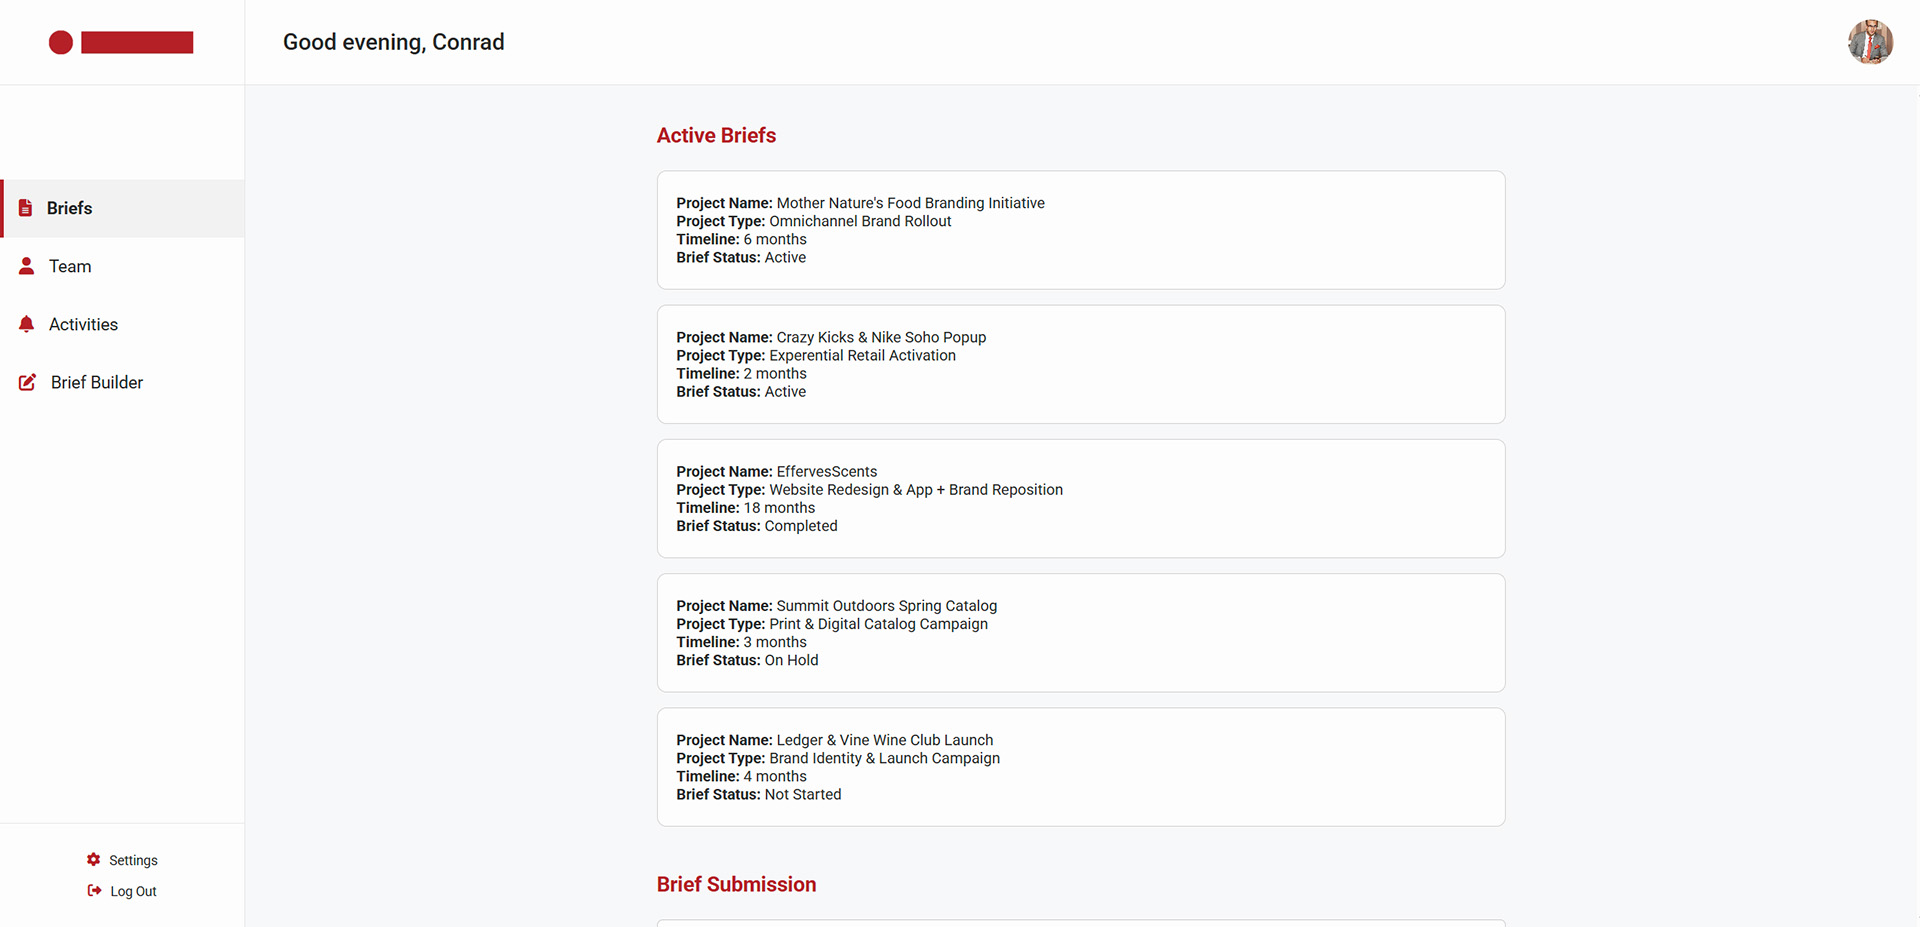
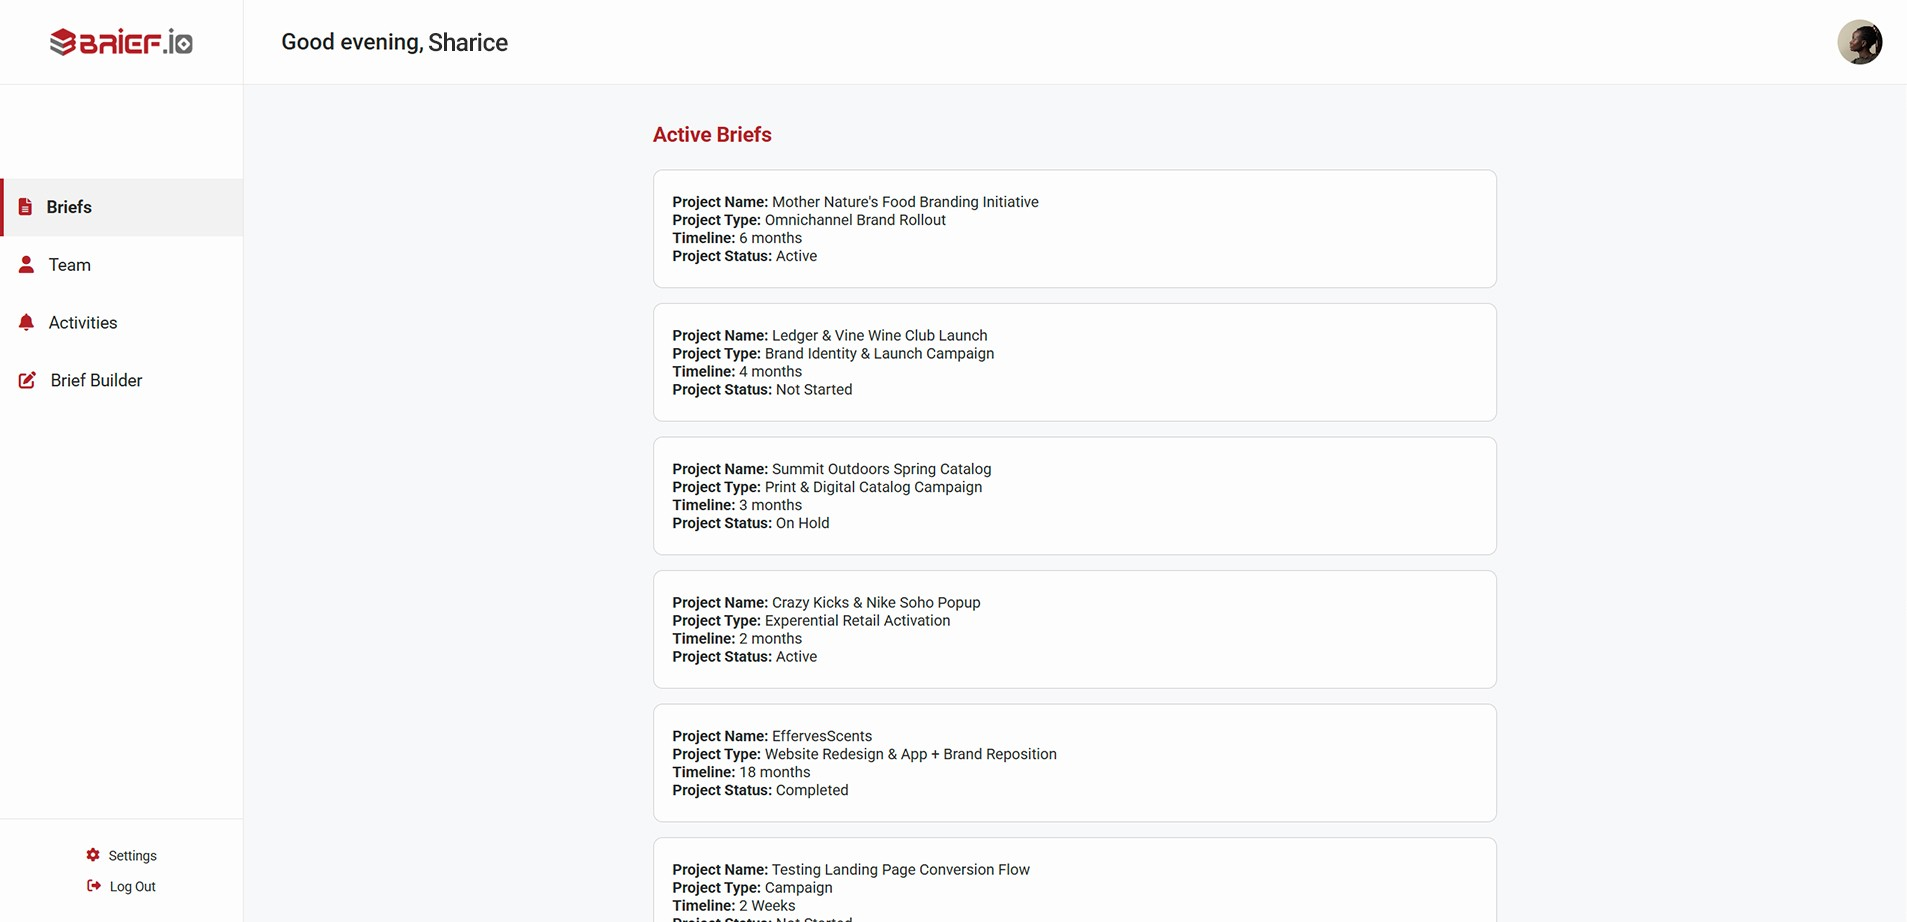
ThreeColumnFeature had 3 placeholder graphics. Removed the placeholder graphics and added stock images of professionals working in an office setting.
Did the same for CTABlock and replaced the placeholder graphic, with an image of professionals in a work environment.

diff --git a/frontend/src/components/ThreeColumnFeature/ThreeColumnFeature.jsx b/frontend/src/components/ThreeColumnFeature/ThreeColumnFeature.jsx
@@ -2,6 +2,9 @@ import "./ThreeColumnFeature.css"
 import bannerContentBlock1 from "../../assets/banner-content-block-1.jpg"
 import bannerContentBlock2 from "../../assets/banner-content-block-2.jpg"
 import bannerContentBlock3 from "../../assets/banner-content-block-3.jpg"
+import threeColumnFeature1 from "../../assets/three-column-feature-1.jpg"
+import threeColumnFeature2 from "../../assets/three-column-feature-2.jpg"
+import threeColumnFeature3 from "../../assets/three-column-feature-3.jpg"
 import "../../styles/section-heading.css"
 
 /* This is the banner section under the first tabbed element on Home.jsx It has the section heading, then 3 columns: image, column heading, and <p> in each column. */
@@ -11,19 +14,19 @@ function ThreeColumnFeature() {
     const columns = [
 
         {
-            image: bannerContentBlock1,
+            image: threeColumnFeature1,
             heading: "Fast creation, editing, with reliable consistency",
             text: "Create beautifully formatted briefs in minutes, make fast edits, and maintain consistent formatting between all initiatives"
         },
 
         {
-            image: bannerContentBlock2,
+            image: threeColumnFeature2,
             heading: "AI-Powered brief generation and edits",
             text: "AI-Mode streamlines creation of comprehensive briefs when flushing out details for complex and highly-important projects"
         },
 
         {
-            image: bannerContentBlock3,
+            image: threeColumnFeature3,
             heading: "Centralized and supremely organized",
             text: "Brief.io's user interface is equipped with dashboards for your briefs, team management, activities, and brief creation"
         }

diff --git a/frontend/src/components/Dashboard/TopBar/TopBar.css b/frontend/src/components/Dashboard/TopBar/TopBar.css
@@ -1,16 +1,3 @@
-/* .dashtop-bar {
-
-    width: 100%;
-    height: 90px;
-    display: flex;
-    align-items: center;
-    justify-content: space-between;
-    padding: 20px 40px;
-    border-bottom: 1px solid var(--border-line);
-    background-color: var(--ui-paneling);
-
-} */
-
 .dashtop-bar {
     width: 100%;
     height: 90px;

diff --git a/frontend/src/components/CtaBlock/CtaBlock.css b/frontend/src/components/CtaBlock/CtaBlock.css
@@ -72,9 +72,9 @@
 .cta-block-img {
 
     width: 100%;
-    height: 700px;
+    /* height: 700px; */
     display: block;
-    border: 5px solid var(--burgundy);
+    /* border: 5px solid var(--burgundy); */
     border-radius: 12px;
     box-shadow: 2px 2px 5px var(--text-muted);
 

diff --git a/frontend/src/components/ThreeColumnFeature/ThreeColumnFeature.css b/frontend/src/components/ThreeColumnFeature/ThreeColumnFeature.css
@@ -29,7 +29,7 @@
 
     width: 100%;
     display: block;
-    border: 5px solid var(--burgundy);
+    /* border: 5px solid var(--burgundy); */
     border-radius: 12px;
     box-shadow: 2px 2px 5px var(--text-muted);
 
